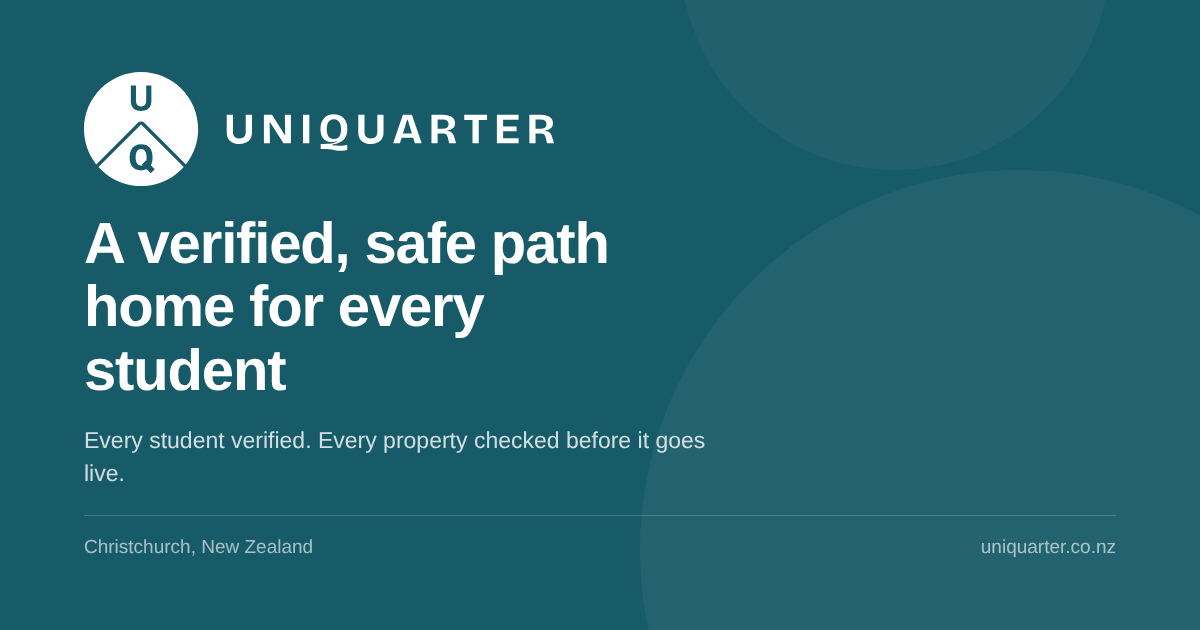
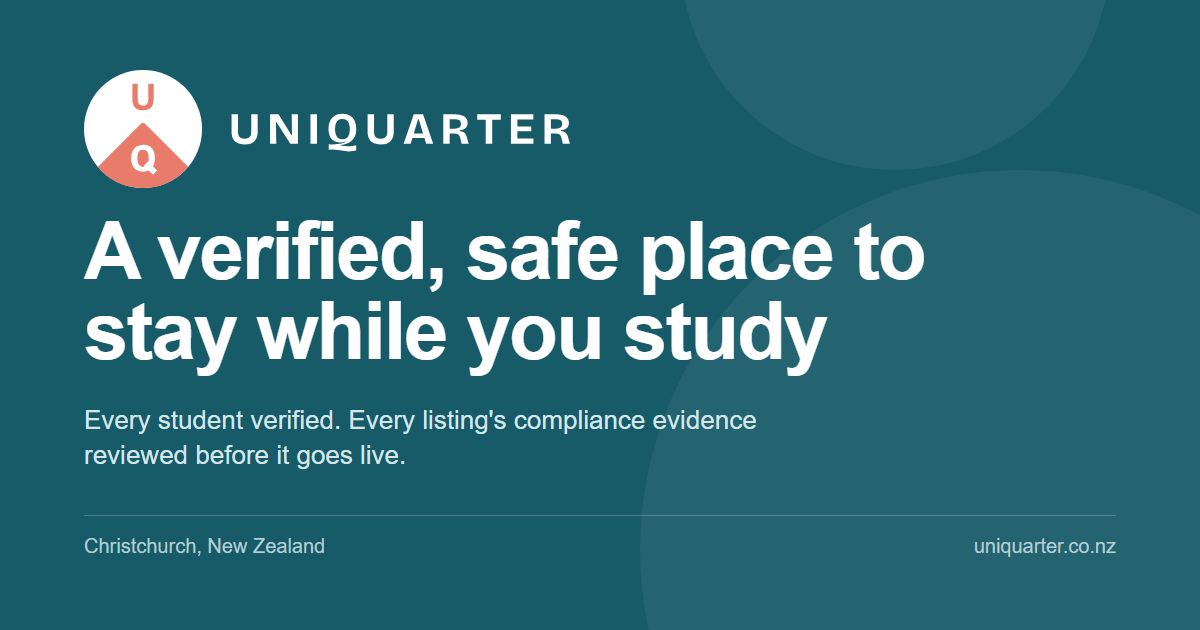
New headline, and stop implying properties are physically checked
Headline is now 'A verified, safe place to stay while you study', in the page,
title, search description, link-preview title and the company data. Listings are
described as having their compliance evidence reviewed, not as checked, which
suggested an inspection. The link-preview image is remade to match.

diff --git a/index.html b/index.html
@@ -3,14 +3,14 @@
 <head>
 <meta charset="utf-8">
 <meta name="viewport" content="width=device-width, initial-scale=1">
-<title>UniQuarter | A verified, safe path home for every student</title>
-<meta name="description" content="UniQuarter is a Christchurch company building a verified, safe path home for every student. Every student verified, every property checked before it goes live, and every step of the tenancy confirmed by both sides.">
+<title>UniQuarter | A verified, safe place to stay while you study</title>
+<meta name="description" content="UniQuarter is a Christchurch company building a verified, safe place for students to stay while they study. Every student verified, every listing's compliance evidence reviewed before it goes live, and every step of the tenancy confirmed by both sides.">
 <meta name="robots" content="index, follow">
 <link rel="canonical" href="https://uniquarter.co.nz/">
 <meta property="og:type" content="website">
 <meta property="og:site_name" content="UniQuarter">
-<meta property="og:title" content="UniQuarter | A verified, safe path home for every student">
-<meta property="og:description" content="Every student verified. Every property checked before it goes live. Every step of the tenancy confirmed by both sides.">
+<meta property="og:title" content="UniQuarter | A verified, safe place to stay while you study">
+<meta property="og:description" content="Every student verified. Every listing's compliance evidence reviewed before it goes live. Every step of the tenancy confirmed by both sides.">
 <meta property="og:url" content="https://uniquarter.co.nz/">
 <meta property="og:image" content="https://uniquarter.co.nz/og-image.png">
 <meta property="og:image:width" content="1200">
@@ -38,7 +38,7 @@
       "url": "https://uniquarter.co.nz/",
       "email": "alex.moyse@uniquarter.co.nz",
       "foundingDate": "2026",
-      "description": "UniQuarter is building a verified, safe path home for every student, with verified student profiles, checked listings and a gated eight-stage tenancy process.",
+      "description": "UniQuarter is building a verified, safe place for students to stay while they study, with verified student profiles, reviewed listings and a gated eight-stage tenancy process.",
       "address": {"@type": "PostalAddress", "addressLocality": "Christchurch", "addressCountry": "NZ"},
       "identifier": {"@type": "PropertyValue", "propertyID": "NZBN", "value": "9429053882608"},
       "founder": [
@@ -86,8 +86,8 @@
   <div class="wrap">
     <div class="hero-grid">
       <div>
-        <h1>A verified, safe path home for every student</h1>
-        <p class="hero-lead">Every student verified. Every property checked before it goes live. Every step of the tenancy confirmed by both sides.</p>
+        <h1>A verified, safe place to stay while you study</h1>
+        <p class="hero-lead">Every student verified. Every listing's compliance evidence reviewed before it goes live. Every step of the tenancy confirmed by both sides.</p>
         <p class="status"><span class="dot" aria-hidden="true"></span><span><b>We are still building.</b> A Christchurch pilot is proposed for the 2027 student leasing season.</span></p>
         <div class="hero-cta">
           <a class="btn btn-accent btn-lg" href="#contact">Register interest</a>
@@ -109,7 +109,7 @@
   <div class="wrap">
     <div class="section-head">
       <p class="eyebrow">What UniQuarter is</p>
-      <h2>A check on the student, the property and every stage</h2>
+      <h2>Verified students, reviewed listings, confirmed stages</h2>
     </div>
     <div class="grid3">
 
@@ -132,9 +132,9 @@
       <details class="xcard">
         <summary>
           <span class="chev" aria-hidden="true"></span>
-          <svg class="ico" viewBox="0 0 48 48" role="img" aria-label="Checked against standards" xmlns="http://www.w3.org/2000/svg"><rect width="48" height="48" rx="13" fill="#EEF4F5"/><path d="M24 11l11 5v10c0 6.5-4.6 10.6-11 12-6.4-1.4-11-5.5-11-12V16z" fill="none" stroke="#175B68" stroke-width="2.2" stroke-linejoin="round"/><path d="M19 24.5l3.6 3.6 7.4-8" fill="none" stroke="#E87B6A" stroke-width="2.6" stroke-linecap="round" stroke-linejoin="round"/></svg>
-          <h3>Checked listings</h3>
-          <p>We check the property against published standards before you ever see it.</p>
+          <svg class="ico" viewBox="0 0 48 48" role="img" aria-label="Reviewed against standards" xmlns="http://www.w3.org/2000/svg"><rect width="48" height="48" rx="13" fill="#EEF4F5"/><path d="M24 11l11 5v10c0 6.5-4.6 10.6-11 12-6.4-1.4-11-5.5-11-12V16z" fill="none" stroke="#175B68" stroke-width="2.2" stroke-linejoin="round"/><path d="M19 24.5l3.6 3.6 7.4-8" fill="none" stroke="#E87B6A" stroke-width="2.6" stroke-linecap="round" stroke-linejoin="round"/></svg>
+          <h3>Reviewed listings</h3>
+          <p>We review the evidence against published standards before you ever see the listing.</p>
           <span class="hint">What this involves</span>
         </summary>
         <div class="xbody">
@@ -178,7 +178,7 @@
         <p>Landlords and property managers described the other side of the same process: annual churn, shorter tenancies, screening applicants with no rental history, and doing all of it again every year.</p>
       </div>
       <div>
-        <p>More beds are needed. The other half is a fragmented process that wastes everyone's time and leaves good landlords indistinguishable from bad ones. We are building a route where the property is checked before anyone sees it, both parties are verified, and doing the job well earns credit.</p>
+        <p>More beds are needed. The other half is a fragmented process that wastes everyone's time and leaves good landlords indistinguishable from bad ones. We are building a route where every listing's evidence is reviewed before anyone sees it, both parties are verified, and doing the job well earns credit.</p>
       </div>
     </div>
 
@@ -390,7 +390,7 @@
 
     <div class="tabpanel" role="tabpanel" id="wp4" aria-labelledby="wt4" hidden>
       <div>
-        <h3 class="sub-h">Somewhere to refer students for checked housing</h3>
+        <h3 class="sub-h">Somewhere to refer students for reviewed listings</h3>
         <div class="pledge">No integration required. No student personal information leaves the institution.</div>
       </div>
       <ul class="ticks">
